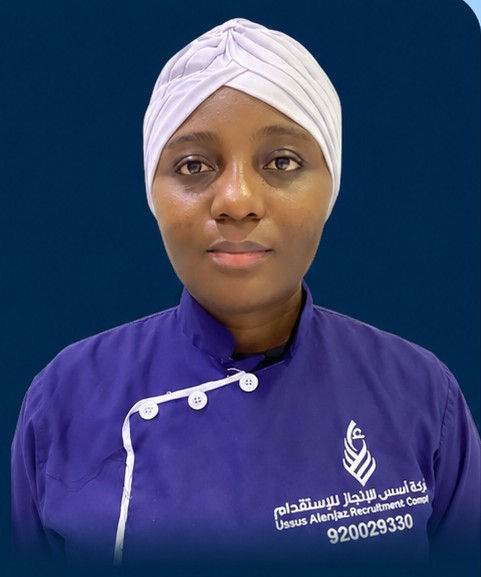
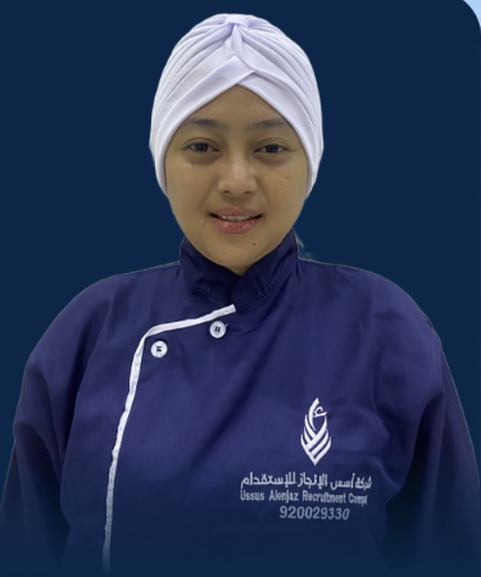
New example worker on first open (NURTI NISAIL)
Claude-Session: https://claude.ai/code/session_0129WSDw5j5qfYrgdJyvyqKT

diff --git a/index.html b/index.html
@@ -205,8 +205,8 @@ details#manual>summary{cursor:pointer;padding:14px 16px;font-weight:700;list-sty
   const cv = $("cv"), ctx = cv.getContext("2d");
   const fields = ["name", "age", "religion", "nationality", "exp", "job", "salary"];
 
-  const EXAMPLE = { name: "CATHERINE", age: "28", religion: "غير مسلمة", nationality: "كينيا",
-    exp: "خبرة سنتين\nفي السعودية", job: "عاملة منزلية", salary: "1000", skills: ["التنظيف", "رعاية الأطفال", "الطبخ"] };
+  const EXAMPLE = { name: "NURTI NISAIL", age: "35", religion: "مسلمة", nationality: "إندونيسيا",
+    exp: "جديدة\nبدون خبرة سابقة", job: "عاملة منزلية", salary: "", skills: ["التنظيف", "رعاية الأطفال", "الطبخ"] };
 
   const state = { skills: [...EXAMPLE.skills], extraSkills: [], photo: null, original: null, isCutout: true,
     zoom: 1, dx: 0, dy: 0, isExample: true };
